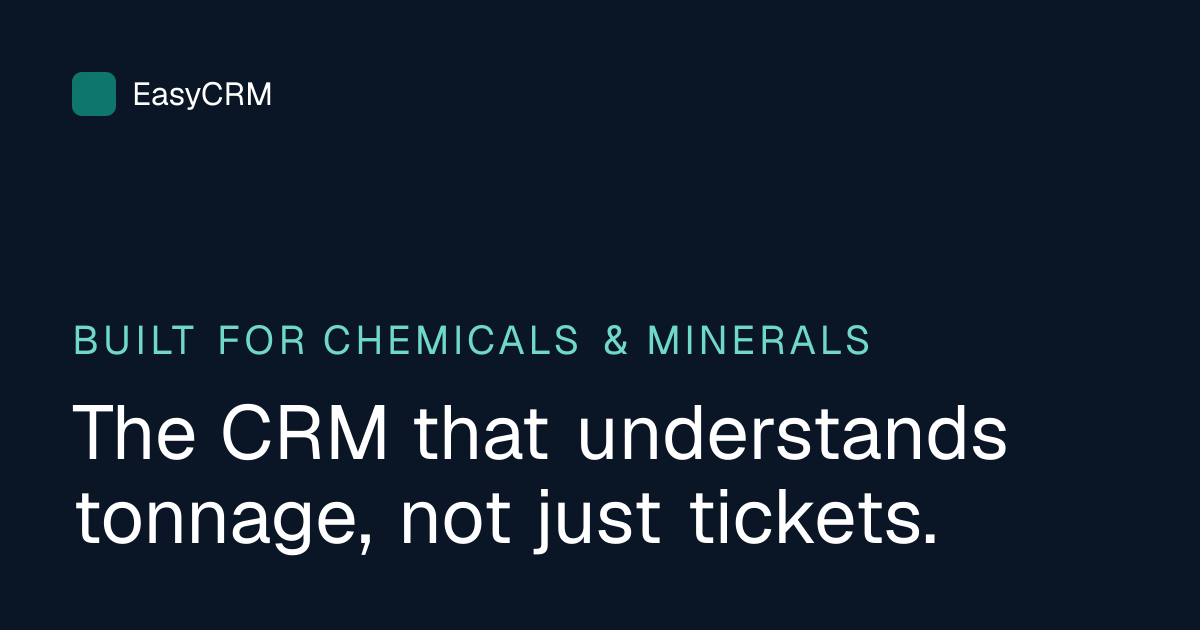
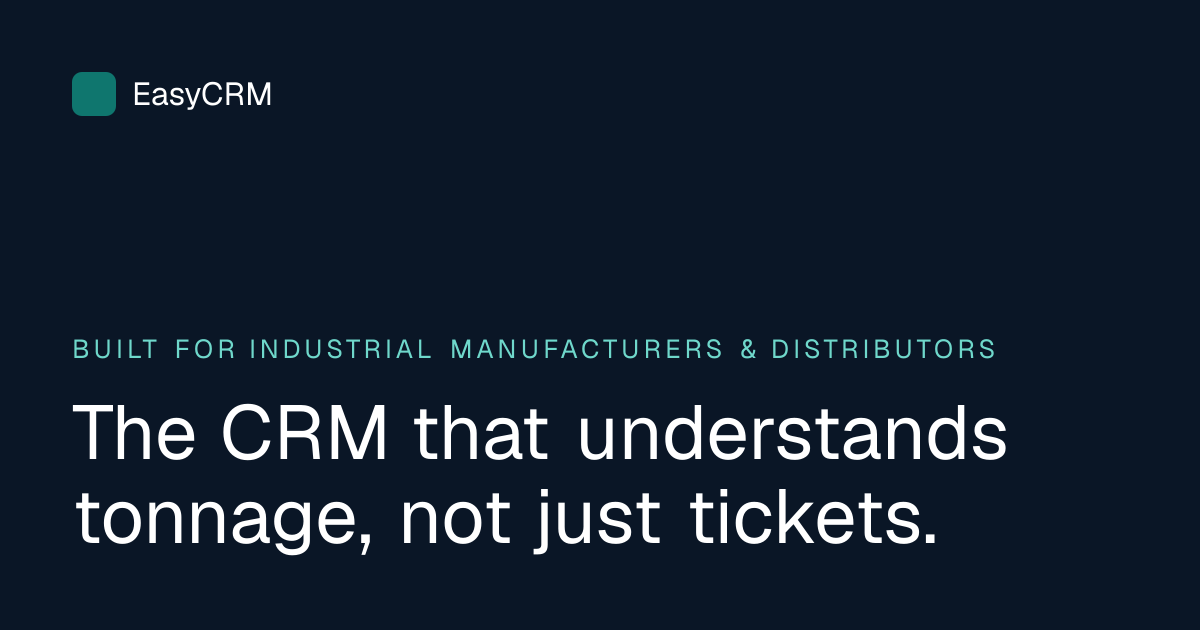
Broaden the hero positioning to industrial manufacturers and distributors
Updates the hero badge and the trust strip, and regenerates the OG image,
which had the old phrase baked into the PNG.

Changed region(s): [[0.0617, 0.5127, 0.8325, 0.573]]

diff --git a/app/page.tsx b/app/page.tsx
@@ -202,7 +202,7 @@ export default function Home() {
           <Container className="relative py-20 sm:py-28">
             <div className="max-w-3xl">
               <p className="mb-5 inline-flex items-center gap-2 rounded-full border border-white/15 bg-white/5 px-3.5 py-1.5 font-mono text-[11px] uppercase tracking-[0.16em] text-teal-300">
-                Built for chemicals &amp; minerals
+                Built for industrial manufacturers &amp; distributors
               </p>
               <h1 className="text-4xl font-semibold leading-[1.08] tracking-tight sm:text-5xl lg:text-[3.4rem]">
                 The CRM that understands tonnage, not just tickets.
@@ -237,7 +237,7 @@ export default function Home() {
           <div className="relative border-t border-white/10">
             <Container className="grid grid-cols-2 gap-px sm:grid-cols-4">
               {[
-                ["Built for", "Chemicals & minerals"],
+                ["Built for", "Manufacturers & distributors"],
                 ["Setup", "Import from Excel"],
                 ["Trial", "14 days, no card"],
                 ["Support", "India, IST hours"],
